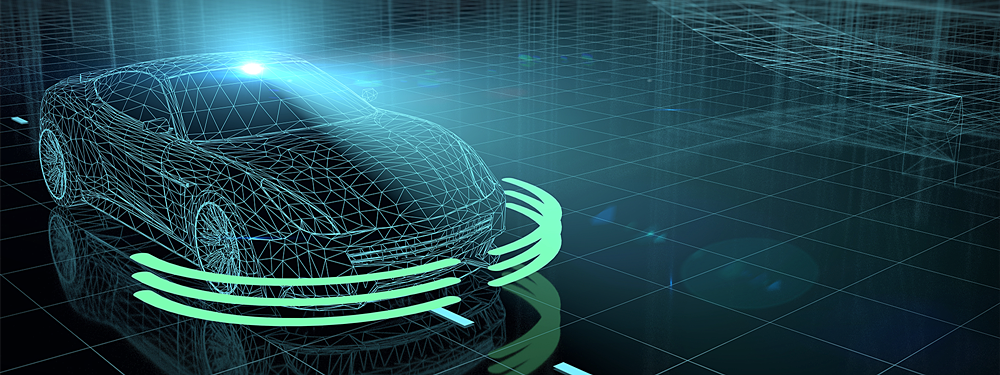
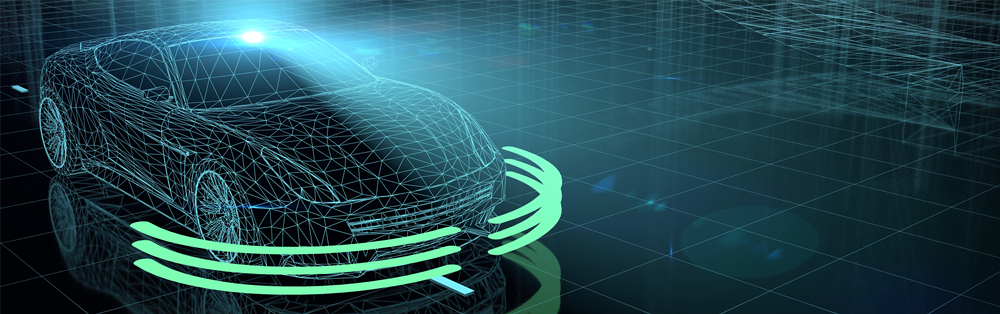
change cover image

diff --git a/assets/main.css b/assets/main.css
@@ -90,12 +90,6 @@
  td.abstract img{display: block; margin: 4px auto 8px auto}
  table.plenary{padding-top: 8px; background: #ffffff;}
  
- /* Registration and Directions iframes and Images */
- iframe.registration{display:block; margin:1em auto 2em auto; width:700px; height:1400px; border:none;}
- iframe.directions{display:block; margin:1em auto 2em auto; width:800px; height:400px; border:none;}
- img.center{display:block; width:67%; margin:1em auto 2em auto;}
- 
- 
  
  /* My hacky way of making the site mobile-friendly */
  @media only screen and (max-width: 800px) {
